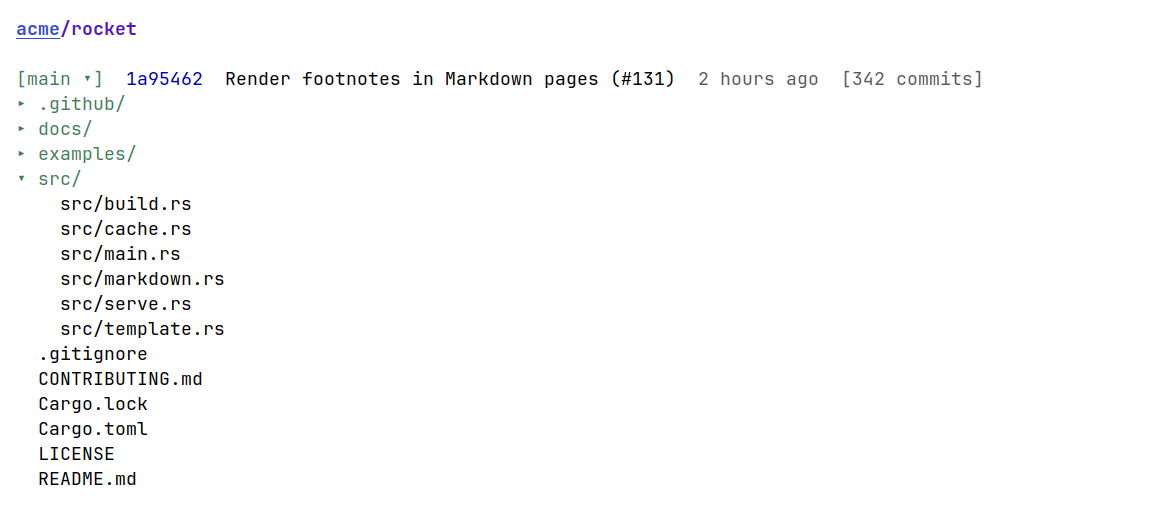
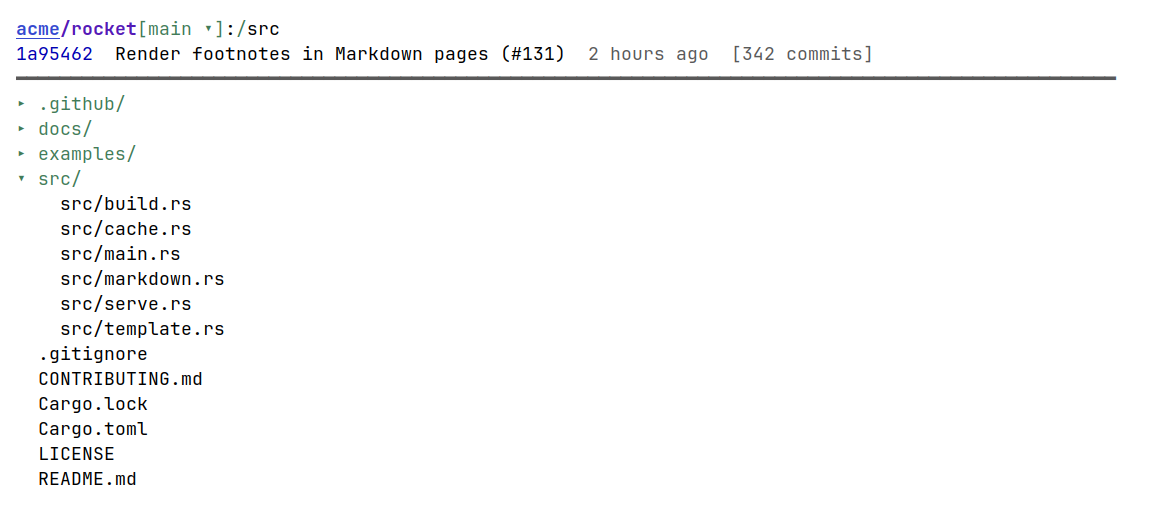
Put the branch and path on one top line, and cut long branch names
The tree browser and the file viewer share a top line,
owner/repo[main ▾]:/dir/file: the branch picker, then the path, whose
directories open the tree browser at them.  The last commit is right
under it, then a rule.  A branch name longer than
`octocat-ref-max-width' is cut in its middle in every picker, keeping
both ends; its help names it in full.

A spinner turns before an image's link while it loads.  A README's
relative links no longer point at a "nil" ref when the page has none.

Two docstrings failed checkdoc on Emacs 29.1 and 30.2, which `make ci'
on 31.1 did not catch: `make ci-all' runs every release CI does, at once.

Changed region(s): [[0.0, 0.0301, 0.9671, 0.1805]]

diff --git a/README.md b/README.md
@@ -327,10 +327,13 @@ relative image shows it in place.  `C-c C-v` shows the Markdown source
 instead.  Any other file is shown with the syntax highlighting of its
 major mode.
 
-The top of the page continues the tree browser's: the repository, then
-the ref picker with the file's last commit and a `[N commits]` button to
-its history, then the file's path, with `[Browse tree]` to open the tree
-browser down to it.  Each ref of a file has a buffer of its own, named
+The top of the page is the tree browser's: `owner/repo[main ▾]:/dir/file`,
+the branch picker and the path, whose directories open the tree browser
+down to them, and `[Browse tree]`, which opens it down to the file.
+Under it are the file's last commit and a `[N commits]` button to its
+history, then a rule.  A branch name longer than `octocat-ref-max-width`
+is cut in its middle, there and in every branch picker; hovering over
+it shows it in full, as does picking a branch.  Each ref of a file has a buffer of its own, named
 `*owner/repo@ref:path*`; `C-c C-b`, or `RET` on the picker, opens the
 file at another branch, in another buffer, so the two can be read side
 by side.  Press `C-c C-o` to open the file on GitHub, `C-c C-l` to open
@@ -465,7 +468,9 @@ make ci EMACS=29.1
 ```
 
 CI runs 29.1, the oldest release octocat supports, as well as 30.2 and
-31.1.  The newest matters too: Emacs 31 checks a call's argument count
+31.1.  `make ci-all` runs all three at once, as CI does, each one's
+output in `.ci/VERSION.log`; their `checkdoc`s differ, so a docstring
+one passes can fail another.  The newest matters too: Emacs 31 checks a call's argument count
 against any loaded function, while older releases check it only against
 callees that are already byte-compiled, so only 31 catches every call
 with the wrong number of arguments.

diff --git a/AGENTS.md b/AGENTS.md
@@ -9,7 +9,7 @@ See "Functional core" in [CONTRIBUTING.md](CONTRIBUTING.md): keep functions as f
 ## Rules
 
 - **Never commit or modify git state.** The developer handles all commits.
-- **Always run `make ci`** (compile + lint + test) after making changes. Fix all errors and warnings before finishing.
+- **Always run `make ci-all`** (compile + lint + test, on every Emacs release CI runs, at once) after making changes. Fix all errors and warnings before finishing; `make ci` runs one release, for a quicker check while working.
 - **Only call functions from declared dependencies.** The declared deps are in the `Package-Requires` header of `octocat.el`. Do not call into magit internals, transient internals, or any other package not listed there — even when taking inspiration from them. Re-implement the idea in plain Elisp instead.
 - **Update `CHANGELOG.md` for significant changes**: anything a user would notice (features, key bindings, fixed bugs) or that changes which Emacs versions are supported or tested. Add a line under `## [Unreleased]`, worded for users, in the style of the entries already there.
 - **Keep `Assisted-by:` headers complete.** Every `.el` file, tests included, lists each model that has worked on it, one line per model, as MELPA asks (`;; Assisted-by: AGENT_NAME:MODEL_VERSION`, e.g. `;; Assisted-by: Claude:claude-opus-5-5`). When you edit or create a file and your model is not listed there, add a line after the existing `Assisted-by:` lines, or, in a file with none, after the title line. Never remove a line.

diff --git a/CHANGELOG.md b/CHANGELOG.md
@@ -7,9 +7,10 @@ The format is based on [Keep a Changelog](https://keepachangelog.com/en/1.0.0/).
 * Fix relative links in a repository's README opening a local file, in an outside program: they open the linked file, at the branch shown, in octocat's file viewer
 * `RET` on an image in a README, given by a relative path, shows it in place, as it does for images uploaded to GitHub
 * The file viewer renders Markdown files, as GitHub does, with their relative links and images working as in a README; `C-c C-v` shows the source
-* The file viewer's top continues the tree browser's: the branch picker, the file's last commit and its history, then its path
+* The tree browser and the file viewer share a top line, `owner/repo[main ▾]:/dir/file`: the branch picker, then the path, whose directories open the tree browser at them; under it, the last commit, then a rule
+* Long branch names are cut in the middle in branch pickers, keeping both ends; hovering shows the name in full (`octocat-ref-max-width`)
 * Each branch of a file opens in a buffer of its own, named after both; `C-c C-b`, or `RET` on the picker, opens the file at another branch
-* While an image loads, its link says so, and the mode line shows `:loading`
+* While an image loads, a spinner turns before its link, and the mode line shows `:loading`
 * Image links have a face of their own, so they stand apart from other links
 * Fix a blue line drawn across the middle of an image shown in place
 
